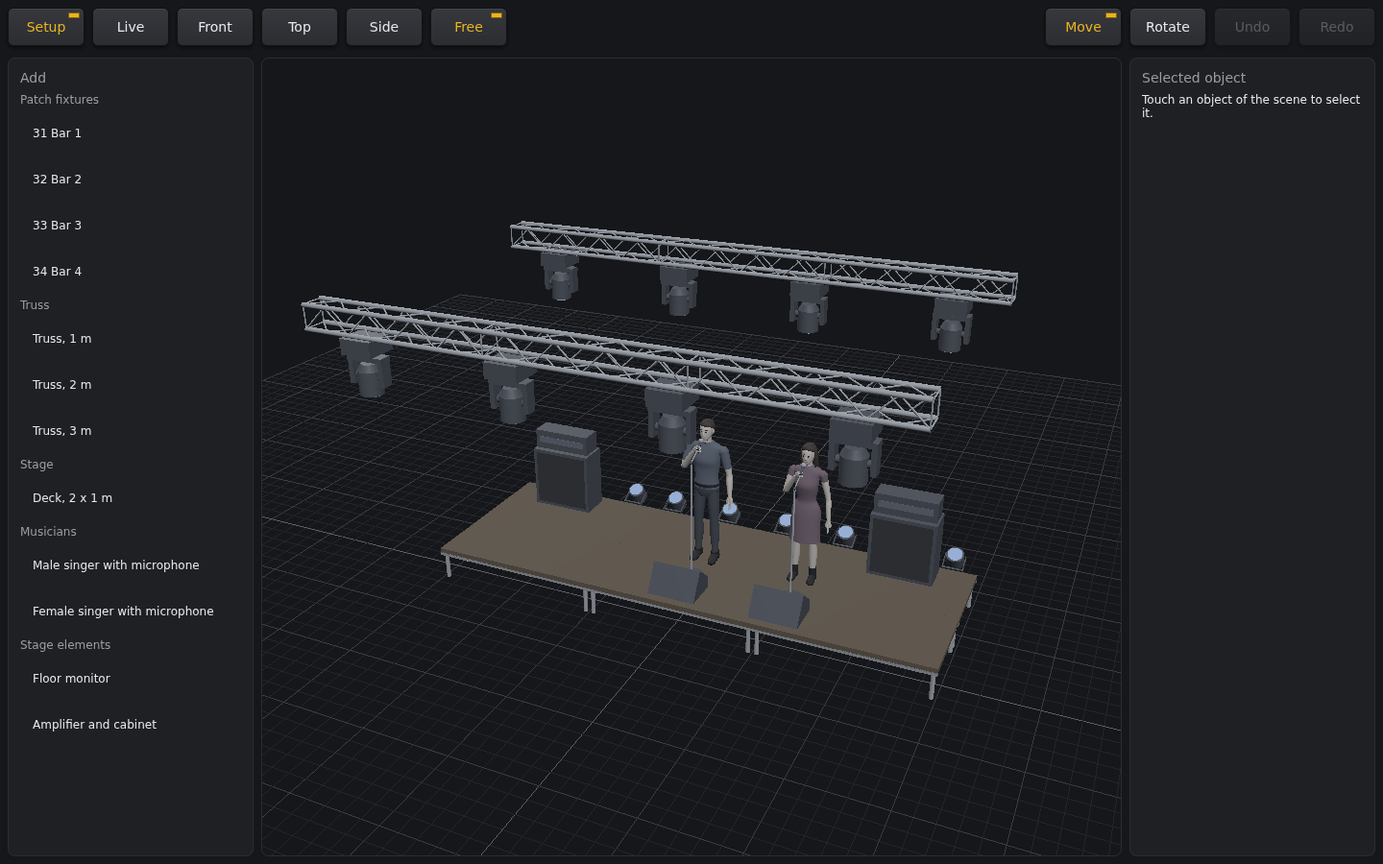
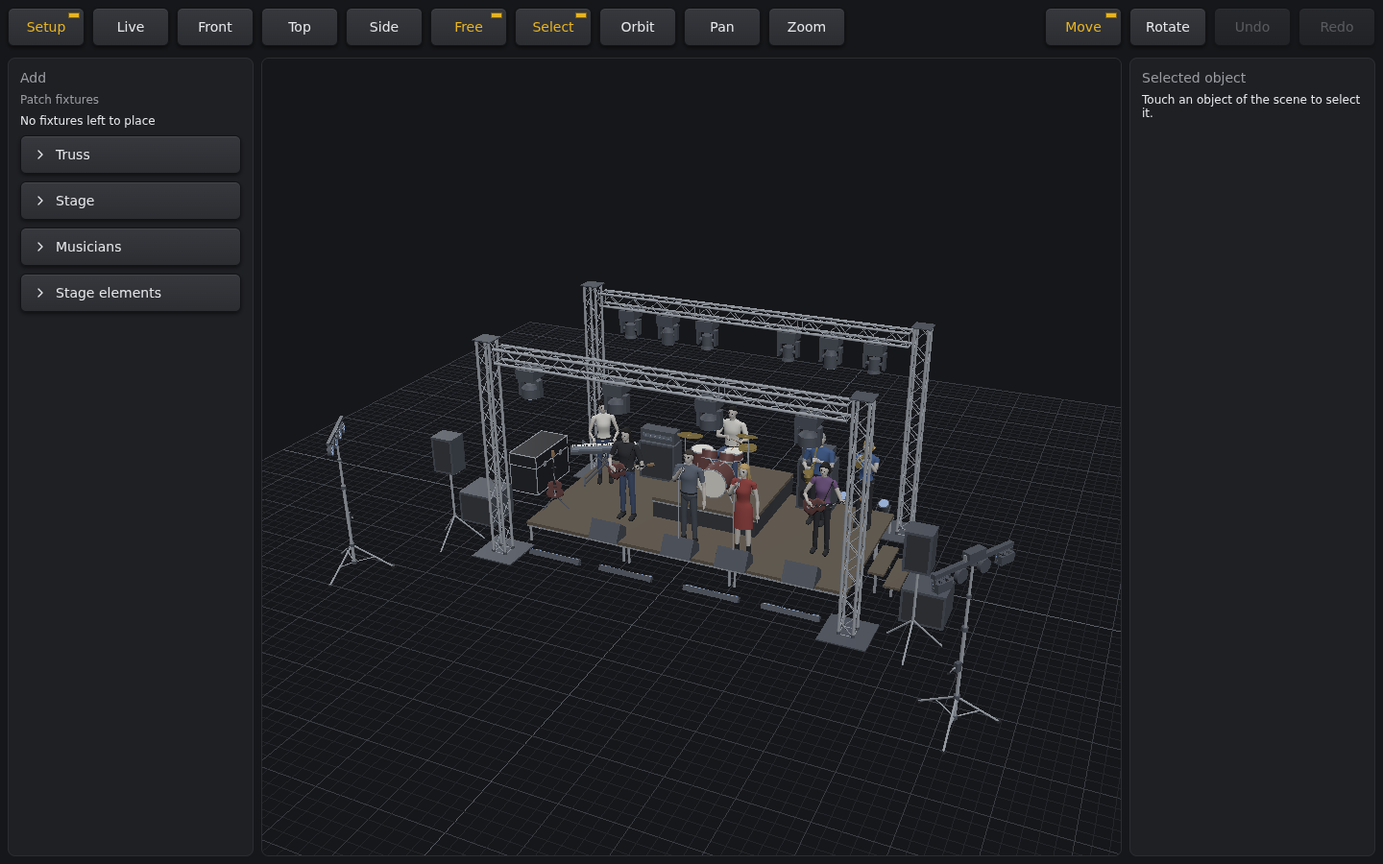
docs: record the stage library, effects and editor work

diff --git a/MEMORY.md b/MEMORY.md
@@ -780,21 +780,78 @@ Status: Confirmed (2026-11-22).
 - **Import:** the page of the stage declares an import map for `three` and `three/addons/`, the names the addons use; being inline, it is allowed by its SHA-256 hash in the Content Security Policy of that page only. Changing the import map means updating the hash. (Proposed)
 - **Types:** `@types/three` with the same version, development only. (Confirmed)
 - **Models:** made by us and generated by `npm run models` (`app/scripts/make-models.mts`) into `app/assets/models` (one `.obj` per model and the list `models.json`); the generated files are committed. Meters, Y up, front towards +Z; no `.mtl` files and no textures: the material names (`usemtl`) get their look in `renderer/stage/stage-materials.ts`. Moving parts are separate objects (base, yoke, head) with their pivots in the list. (Confirmed own models, Proposed format and a single folder with the category in the list)
-- **Detail level** (decided by the human on 2026-11-28): objects stay simple solids; musicians and singers are more detailed (rounded smooth surfaces, face, hair, clothes, hands, shoes). The singer exists as a man and as a woman. People are told apart in greys by lightness. `models/person.mts` is the figure reused by every musician, posed by elbow and wrist. (Confirmed detail and two singers, Proposed look)
+- **Detail level** (decided by the human on 2026-11-28): objects stay simple solids; musicians and singers are more detailed (rounded smooth surfaces, face, hair, clothes, hands, shoes). The singer exists as a man and as a woman. People are told apart by hair and clothes (see Model library). `models/person.mts` is the figure reused by every musician, posed by elbow and wrist. (Confirmed detail and two singers, Proposed look)
 - **Generator:** `make-models.mts` lists the models; the builders are in `scripts/models/` (writer, vectors, one file per family). The files carry their normals; normals are computed only for files without them.
 - **Window:** the stage has its own window, opened on request from the key of the top bar (Lucide `spotlight`), one at a time, closed with the main window; method `stage.open`, desktop only. The key is shown with a show open and an operator entered, never to remote clients. (Confirmed window and key, Proposed rest)
-- **View:** floor grid of 20 x 20 m, front, top, side and free views that frame the content, orbit, pan and zoom with mouse and touch; it draws only when something changes. (Proposed)
+- **View:** floor grid of 20 x 20 m, front, top, side and free views that frame the content; it draws only when something changes. (Proposed) Controls (decided by the human on 2026-11-28): the middle button orbits and with Shift pans, the wheel zooms towards the pointer, a double press of the middle button centres the view there, the left button selects (the right one does nothing); tools Select, Orbit, Pan and Zoom in the toolbar and on the keys Space, O, H and Z make the left button do it; Shift+Z frames everything, Escape goes back to Select. On touch screens of the computer one finger orbits and two pan and zoom. (Confirmed)
+- **No 3D on mobile** (decided by the human): the stage is only on the computer of the application; devices connected to it have no key for it and the stage page refuses them. (Confirmed)
+
+### Model library (13.2, 2026-11-28)
+
+- **Content:** 69 models. Truss: straight runs of 0.5, 1, 2, 3 and 4 m, corner, T and cross joints, base plate, towers of 3 and 4 m. Stage: decks of 1 x 1 and 2 x 1 m (also 1 m high), drum riser, stairs of 40 cm and 1 m. Fixtures: moving head spot, wash and beam, PAR, LED bar, blinder, strobe, follow spot. Elements: guitar and bass stacks, combo, floor monitor, PA speaker on its pole, subwoofer, microphone, keyboard and guitar stands, two flight cases, DJ booth. (Proposed sizes and shapes)
+- **Musicians** (decided by the human): singer, guitarist, singer with acoustic guitar, bassist, drummer, keyboard player and pianist at a grand piano, each as a man and as a woman; drummer and pianist are seated. Added by the human the same day: harp, violin, trumpet, trombone, saxophone, transverse flute and a string trio (violin, viola and cello on chairs with their music stands), also in both versions, the trio all men, all women or mixed (the human asked for the mixed one). (Confirmed instruments, Proposed rest)
+- **Telling them apart** (requested by the human): every role and version has its own hair cut (bald, buzz, short, quiff, curly, bob, long, ponytail, bun), hair color and clothes in muted colors (`scripts/models/looks.mts`); who sits or plays in a band wears trousers, some singers and players a dress. It replaces the first greys told apart by lightness. (Confirmed differences, Proposed looks)
+- **Fixtures of the patch:** the model chosen when placing follows the category (LED and pixel bar: LED bar; blinder; strobe; scanner: spot; the others: PAR); a moving head is a beam when its widest beam is 8 degrees or less, a spot when it has gobos, a wash otherwise (`renderer/stage/default-model.ts`). It replaces the first choice between moving head and PAR. The follow spot is chosen by hand. (Proposed)
+- **Hanging:** see Limits of the stage editor.
+- **Light files** (the human accepted a slight loss of quality): millimeter coordinates, two decimals for the normals and three quarters of the facets on smooth surfaces and balls; 7.5 MB instead of 13.
+- **Generator:** the files share vertices and normals; `models.json` also lists the width of every model, used to place a new object beside the others. A seated figure is posed by the drop of its body and by knees and ankles (`models/person.mts`).
+- **View rotation:** the camera orbits in every view by dragging an empty point (right button pans, wheel zooms; on touch one finger orbits, two pan and zoom).
+- **Demo show:** trumpet and saxophone beside the band on a deck with drum riser, two truss rows on four towers, LED bars on the floor, amplifiers, monitors, PA and subwoofers, stairs and a flight case.
+
+### Stairville bars and wind-up stand (13.11, 2026-11-28)
+
+- **Definitions** from the manufacturer manuals (Thomann): `stairville/stage-quad-led-bundle-rgb-ww` (manual 406030/404465 V3; modes 2, 4, 5, 8, 10, 18 channels; category LED bar; beam 40 degrees; 1200 x 330 x 70 mm, 12.5 kg) and `stairville/led-bossfx-1-pro-bundle` (manual 424577 V6; modes 3, 5, 10, 28 channels; category effect; 8.8 kg). The BossFx beam angle is not published: 30 degrees. (Confirmed fixtures, Proposed attributes)
+- **BossFx safety:** the laser, strobe LED, UV and automatic programme channels are marked for the blackout (see Blackout of channels without a dimmer).
+- **3D models** (decided by the human: the BossFx only as a bar, without its tripod): `stairville-quad` (four flat spots under the bar) and `stairville-bossfx` (derby, flood, flood, derby, laser on top), chosen automatically for these definitions (shapes Proposed).
+- **Several lights per fixture:** a model lists its lenses in `emitters` (materials `lens-1` to `lens-4`); each has its own color and beam, taken from the heads of the mode (neighbouring lights share a head when there are fewer). Modes of automatic programmes of color mixing fixtures show no light; a dimmer with strobe capabilities strobes. Derbies, laser and strobe LEDs: see Effects of the fixtures. (Proposed)
+- **Adjustable height** (decided by the human): a property of the 3D model (`lift` in `models.json`, parts `riser1` and `riser2`), set with a 3D arrow on top of the selected object in steps of 10 cm; the show saves `height` in the stage object. It is not an option of the fixture editor (models cannot be created there). (Confirmed arrow, Proposed step)
+- **Wind-up stand** (`windup-stand`, no brand in the name): 1.67 to 3.70 m, three sections, base of 128 cm.
+- **Mounting** (decided by the human): "Mount on the stand" puts the selected fixture on the top of the nearest stand, which then carries it when moved, turned, raised or lowered. Bars (`hang` in the model) hang under a truss without being turned over. (Confirmed mounting, Proposed hanging of bars)
+- **Demo show:** both bars patched on universe 2 (51 Quad at 101, 52 BossFx at 121), on two wind-up stands at the front, lit by the scene Front white.
+
+### Limits of the live emulation, first part (2026-11-28)
+
+The human chose the limits to solve with polls.
+
+- **Blackout of channels without a dimmer** (confirmed by the human): a channel of a definition can have `blackout: true`; a closed grand master or the blackout set it to 0, while lower grand master levels leave it as it is (its value is not a brightness). It is a column of the fixture editor ("Stops it" or "Keeps it"). Used by the BossFx for laser, strobe LEDs, UV and operating mode; motors are left. (Proposed form)
+- **Beams stopped by objects** (`stage-occlusion.ts`): one ray from each lens against the models, kept until the lens moves, at most 6 computed per frame; the cone ends there. (Proposed)
+- **Frames and automatic quality** (`stage-frame-meter.ts`): the toolbar shows the frames really drawn; the quality "automatic", now the default, goes down after 3 seconds under 80 % of the target and up after 15 seconds at the target (120 for a level that was too heavy), without judging the first 3 seconds. (Proposed values)
+- **Shadows** (the human asked to be able to turn them on or off): off by default; cast by the 4 brightest lights, which stay also at low quality. (Confirmed switch, Proposed rest)
+- **Strobe:** the existing key of the live view (shown by default, can be turned off) applies to every strobe.
+
+### Gobos and prisms (13.10.6, 2026-11-28)
+
+- **Masks** (decided by the human): in the fixture editor every range with the function "gobo" takes a black and white mask, white being the lit part, saved inside the definition (`image` of the capability: PNG data URL of 128 x 128 in greys), so it travels with the fixture. (Confirmed)
+- **Choosing:** an image picked with the internal file manager (`fixtures.readImage`, png, jpg, webp, gif or bmp up to 10 MB, with the permission of the patch), or a default mask (`gobo-presets.ts`): full circle, ring of 8 dots, swirl of 6 arms, wave, flower of 8 petals, leaning cross. They are the default gobos chosen by the human with a photo (the cyan one is the full circle; the magenta ring is the same shape as the amber one). (Confirmed gobos, Proposed drawings)
+- **Prism:** ranges with the function "prism" take their facets (2 to 32, 3 without). The human asked that gobos be seen repeated by the prism as a pattern: up to 11 facets on one ring, from 12 on two rings (18: 12 outside, 6 inside, empty middle) (`shared/stage/prism-layout.ts`). (Confirmed pattern of 18, Proposed rest)
+- **Rendering:** gobo and prism pattern are one texture projected by one spot light; in the haze every copy of the prism is a beam, with streaks from the mask. Gobo and prism turn with their rotation ranges, stay at their angle in indexing ranges (kind `index`, or "index" in the name) and shake in shaking ranges: the human asked for the prism shake with its frequency from slow to fast; a range shakes when its `shake` is set (key "Shake" of the fixture editor) or its name says so, as in many bundled definitions, from 1.5 to 9 shakes per second (reversed for "fast to slow"). The zoom is reversed when its range says it goes from wide to narrow. The human asked for no limit on the gobos projected, accepting less quality: gobos and prisms are not spot lights but one more pass over the surfaces adding up to 64 projectors, their pictures in one texture (`stage-projection.ts`), at every quality and with no lights of their own; objects do not stop this light. At low quality the pictures are smaller and a prism shows one beam in three in the haze. A gobo without mask leaves the light open. (Proposed)
+- **Generic gobo moving head** (`generic/gobo-moving-head`): bundled with the default masks, prisms of 5 and 18 facets, shaking ranges and a zoom of 6 to 24 degrees (12 channels); two of them in the demo show, on the scene Chorus red. Real fixtures of the library have no masks: their images are not available. (Proposed)
+
+### Effects of the fixtures (13.10, second part, 2026-11-28)
+
+- **Dimmer curve** (decided by the human: ready curves and drawn): `dimmerCurve` of a definition (`shared/fixtures/dimmer-curve.ts`): linear (not saved), square, inverse square, S, or drawn through 2 to 32 points. Set in the physical data of the fixture editor with the framework `CurveEditor`. It changes only the 3D stage, not the DMX output. (Proposed shapes)
+- **Channel types added:** `laserRed`, `laserGreen`, `laserRotation`, `strobeWhite`, `strobeUv`; capability kind `program` for automatic and sound programmes. (Proposed)
+- **Model parts:** an emitter of a model can be a `derby` (12 beams, one from each lens of its curved front, in a fan that the motor turns; the derby of the 3D model is the boxed one of the photo given by the human: curved front with six slots of two lenses and a U bracket), `laser` (18 thin red and green rays) or `led` (strobe LED, white or ultraviolet). (`shared/stage/effect-light.ts`, Proposed look)
+- **Automatic programmes** show colors that change by themselves: the real patterns of the fixtures are not known. (Proposed)
+- **Optics:** focus (sharp at the middle of its travel) and frost soften the edge of the beam, frost also widens it; the iris narrows it; a color macro with a color in its capabilities gives that color. (Proposed)
+
+### Limits of the stage editor (13.12, 2026-11-28)
+
+Chosen by the human with polls.
+
+- **Categories** of the "Add" column closed at first; the opened ones stay open on this computer (`backshade.stageCategories`). (Confirmed)
+- **Import from another show:** the 3D stage is a category with two items, the scenery and the placed fixtures (which need their fixtures and the scenery they hang on); a stage already there can be added to, replaced or skipped. (Confirmed import, Proposed parts)
+- **Follow spot** also in the stage elements, as scenery without DMX. (Confirmed)
+- **Hanging** also under the arms of truss joints and on towers: on a side, upright and facing out, or on top with "Mount on top" (which works for wind-up stands and towers). Models list `rails` and `tower`. (Confirmed places, Proposed positions)
 
 ### Stage editor (13.4 and 13.5, 2026-11-28)
 
 - **Permission** (decided by the human): the operator profiles have their own "stage" section (hidden, read only, editable); profiles of older shows have it hidden until an administrator changes it. `stage.open` and `stage.get` need it shown, `stage.set` editable. (Confirmed)
-- **Fixtures** (decided by the human): only the fixtures of the patch can be placed, each once; the model follows the category (moving head and scanner: moving head; the others: PAR) and can be changed. A fixture removed from the patch leaves the stage. (Confirmed from patch, Proposed models)
+- **Fixtures** (decided by the human): only the fixtures of the patch can be placed, each once; the model follows the fixture (see Model library) and can be changed. A fixture removed from the patch leaves the stage. (Confirmed from patch, Proposed models)
 - **Handles and grid** (decided by the human): objects move only with the 3D handles, on a grid of 20 cm in real scale (the floor shows 20 cm squares with stronger lines every meter). Rotations in steps of 15 degrees. No numeric fields: the position is only shown. (Confirmed handles and 20 cm, Proposed 15 degrees)
 - **Saving:** `show.json` section `stage` (`shared/stage/stage.ts`): objects with model, position in meters (origin at the bottom centre), rotation in degrees, patched fixture and truss they hang from. The editor sends the whole stage (`stage.set`), saved as an unsaved change; undo and redo (100 steps) live in the window; Ctrl+S saves the show. (Proposed)
 - **Hanging:** the "Hang on the truss" key puts the fixture upside down under the nearest truss, on the grid along it; moving or turning the truss carries it along (so its position can leave the grid when the truss is turned); it can still be moved by itself, until taken off. Removing a truss leaves its fixtures where they are. (Proposed)
 - **Selection:** press on an object, also inside the outline of open shapes such as trusses. Duplicate for scenery, remove (also with Delete). New objects go on the floor at the point the camera looks at, beside what is already there. (Proposed)
-- **Not included:** the stage is not offered by the import from another show. (Proposed)
-- **Demo show:** two truss rows with the washes and beams hung, PARs on the floor, deck, two singers, amplifiers and monitors; the LED bars are left to be placed.
 
 ### Live emulation (13.3, 13.6 and 13.7, 2026-11-28)
 

diff --git a/ROADMAP.md b/ROADMAP.md
@@ -223,13 +223,13 @@ Static website presenting Backshade, in English and Italian. It lives in `/landi
 3D modeling of the stage with three.js, and a live visualizer that emulates the fixtures from the DMX output. It depends on the fixture model and the output engine (Phase 3) and on the simple console (Phase 4). It is numbered after the existing phases to avoid renumbering them; its position in the development order can be decided later.
 
 - [x] 13.1 three.js vendored locally and imported as native ES modules (see `MEMORY.md`, Dependencies and Code style)
-- [ ] 13.2 Bundled `.obj` model library, ready to use:
-  - [ ] 13.2.1 Truss: straight sections of common lengths, corners, T and cross joints, base plates, towers
-  - [ ] 13.2.2 Stage: modular decks, risers, stairs
-  - [ ] 13.2.3 Most used fixtures: moving head spot, moving head wash, moving head beam, PAR, LED bar, blinder, strobe, follow spot
-  - [ ] 13.2.4 Moving fixtures split into separate parts (base, yoke, head) with defined pivot points, so pan and tilt can be animated
-  - [ ] 13.2.5 Musicians with their instrument: drummer (with drum kit), guitarist, bassist, pianist (with piano or keyboard), singer (with microphone and stand); neutral figures, to visualize the band on stage and aim the lights
-  - [ ] 13.2.6 Stage elements: guitar and bass amplifiers and cabinets, drum riser, risers and platforms, floor wedge monitors, PA speakers and subwoofers, microphone stands, keyboard stands, instrument stands, cases and flight cases, DJ booth
+- [x] 13.2 Bundled `.obj` model library, ready to use:
+  - [x] 13.2.1 Truss: straight sections of common lengths, corners, T and cross joints, base plates, towers
+  - [x] 13.2.2 Stage: modular decks, risers, stairs
+  - [x] 13.2.3 Most used fixtures: moving head spot, moving head wash, moving head beam, PAR, LED bar, blinder, strobe, follow spot
+  - [x] 13.2.4 Moving fixtures split into separate parts (base, yoke, head) with defined pivot points, so pan and tilt can be animated
+  - [x] 13.2.5 Musicians with their instrument: drummer (with drum kit), guitarist, bassist, pianist (with piano or keyboard), singer (with microphone and stand); neutral figures, to visualize the band on stage and aim the lights
+  - [x] 13.2.6 Stage elements: guitar and bass amplifiers and cabinets, drum riser, risers and platforms, floor wedge monitors, PA speakers and subwoofers, microphone stands, keyboard stands, instrument stands, cases and flight cases, DJ booth
 - [x] 13.3 Link between fixture definitions and 3D models: model, beam angle and zoom range, pan and tilt range, light output
 - [x] 13.4 Stage editor: place, move, rotate and snap truss, decks and fixtures; hang fixtures on truss; camera views (front, top, side, free)
 - [x] 13.5 Placed fixtures linked to the patch; stage layout saved in `show.json`
@@ -246,14 +246,29 @@ Static website presenting Backshade, in English and Italian. It lives in `/landi
   - [ ] 13.9.3 Preview of the videomapping (Phase 14): warp, masks and edge blending shown on the 3D surfaces as they would appear in the venue
   - [ ] 13.9.4 Screens, LED walls and projectors placed in the stage editor and linked to the video outputs of Phase 7; layout saved in `show.json`
 - [ ] 13.10 Overcome the limits of the live emulation (requested by the human on 2026-11-28):
-  - [ ] 13.10.1 Beams stopped by the objects they meet
-  - [ ] 13.10.2 Focus, frost and iris
-  - [ ] 13.10.3 Dimmer curve in the fixture definitions
-  - [ ] 13.10.4 Counter of the frames really drawn and quality lowered automatically
-  - [ ] 13.10.5 Shadows of the brightest fixtures
-  - [ ] 13.10.6 Prisms and rotating gobos (generic patterns or images given by the user)
-  - [ ] 13.10.7 Color macros, where the definition gives their colors
+  - [x] 13.10.1 Beams stopped by the objects they meet
+  - [x] 13.10.2 Focus, frost and iris
+  - [x] 13.10.3 Dimmer curve in the fixture definitions: ready curves or drawn in the fixture editor
+  - [x] 13.10.4 Counter of the frames really drawn and quality lowered automatically
+  - [x] 13.10.5 Shadows of the brightest fixtures, that can be turned on or off
+  - [x] 13.10.6 Prisms and rotating gobos; the fixture editor takes black and white masks for the gobos (white is the lit part)
+  - [x] 13.10.7 Color macros, where the definition gives their colors
   - [ ] 13.10.8 Precise beam occlusion and gobos visible in the haze, only if still needed after the rest
+  - [x] 13.10.9 Blackout and grand master stop lasers and strobe LEDs without a dimmer (safety)
+  - [x] 13.10.10 Derby effects: several beams and their rotation
+  - [x] 13.10.11 Laser in the live view
+  - [x] 13.10.12 Strobe and UV LEDs of multi effect fixtures in the live view
+  - [x] 13.10.13 Automatic programmes of the fixtures shown in some way instead of off
+- [x] 13.11 Requested by the human on 2026-11-28: Stairville Stage Quad LED Bundle RGB WW and LED BossFx-1 Pro Bundle as fixtures with their own 3D models, and a wind-up stand of adjustable height (inspired by the Manfrotto 087NW) to mount fixtures on
+- [x] 13.12 Limits of the stage editor and of the model library:
+  - [x] 13.12.1 Categories of the "Add" column that open and close
+  - [x] 13.12.2 Mouse controls of the view with tools for orbit, pan and zoom; no 3D stage on mobile or other connected devices
+  - [x] 13.12.3 The follow spot also as scenery without DMX
+  - [x] 13.12.4 Hanging also on truss joints and towers
+  - [x] 13.12.5 Lighter model files (from 13 to 7.5 MB)
+  - [x] 13.12.6 String trio of men and women together
+  - [x] 13.12.7 Stage included in the import from another show
+  - [x] 13.12.8 README features list updated with the 3D stage
 
 ## Phase 14 - Videomapping
 

diff --git a/TESTING.md b/TESTING.md
@@ -224,7 +224,9 @@ How to use it:
 ## 19. 3D stage
 
 - [ ] On Windows, macOS and Linux the key of the top bar opens the stage window; the models are drawn (WebGL available), also on computers with older or integrated graphics.
-- [ ] Mouse: orbit, pan and zoom; touch screen: one finger orbits, two fingers pinch and pan.
+- [ ] Mouse: middle button orbits, with Shift pans, wheel zooms towards the pointer, double press centres; tools and keys O, H, Z, Space, Shift+Z; also with a trackpad. Touch screen of the computer: one finger orbits, two fingers pinch and pan.
+- [ ] A phone or another computer connected to the show has no 3D stage, also when the address of its page is typed.
+- [ ] Hanging on joints and tower sides matches how the fixtures are really clamped.
 - [ ] Editor on a touch screen: a tap selects, the arrows and rings can be dragged with a finger without moving the camera.
 - [ ] A stage built like a real one (truss, decks, hung fixtures) in a venue: the 20 cm grid is fine enough; heights and distances match the measures.
 - [ ] Live view next to the real rig: colors, intensity, pan and tilt directions, travel and speed, zoom and strobe rate match the fixtures (moving heads hung and standing).
@@ -232,4 +234,18 @@ How to use it:
 - [ ] Operators: stage hidden (no key in the top bar), read only (no handles) and editable; changing operator updates the open stage window.
 - [ ] Save, close and reopen the show, also on another computer: the stage is the same.
 - [ ] Moving the window to a second screen and resizing it keeps the view sharp and proportioned; closing the main window closes it.
-
+- [ ] Model library: sizes of truss, towers, decks, stairs, risers and PA match the real ones used; a rig of a real show can be built with the available pieces.
+- [ ] Placing the fixtures of a real patch gives the right model (spot, wash, beam, PAR, LED bar, blinder, strobe); LED bars, blinders and strobes light in the right direction in the live view.
+- [ ] A large stage (full truss, many musicians) opens in a reasonable time and stays fluid on the show computer.
+- [ ] Stairville Stage Quad LED RGB WW on the real unit, every mode (2, 4, 5, 8, 10, 18 channels): channels, spot order from left to right, strobe; the 3D stage shows the same colors on the same spots.
+- [ ] Stairville LED BossFx-1 Pro on the real unit, every mode (3, 5, 10, 28 channels): derby and spot order, rotation, laser, strobe LEDs and UV. Check with care what stays on in blackout (laser and strobe LEDs are not stopped by it) and use the safety switch.
+- [ ] Wind-up stand: the arrow on its top can be dragged with mouse and finger; mounted bars sit as on the real stand at the same height.
+- [ ] Blackout and grand master at zero stop the laser and the strobe LEDs of the real BossFx in 3, 10 and 28 channel mode; raising them brings back what the desk sends.
+- [ ] Automatic quality on the show computer settles on a level that keeps the frame rate; shadows stay usable.
+- [ ] Effects against the real units: derby rotation way and speed, laser colors, strobe and UV LEDs, focus, frost, iris and color macros of the moving heads; a dimmer curve drawn from the real fixture matches what is seen.
+- [ ] Curve editor of the fixture editor with a finger: add, drag and remove points.
+- [ ] Gobo masks made from the real gobos of a fixture: choose them in the fixture editor, compare projection, rotation way and speed, and the prism pattern with the real fixture.
+- [ ] Choosing a mask image from a remote client (sent with "Send from this device").
+- [ ] Prism and gobo shake, rotation, indexing and zoom against the real fixtures: speeds, ways and the width of the movement.
+- [ ] Many gobo fixtures projecting at once on the show computer: the frame rate holds with automatic quality.
+- [ ] Import the 3D stage from a real previous show, adding to and replacing the one there.

diff --git a/README.md b/README.md
@@ -49,22 +49,24 @@ Available now:
 - Start page with recent shows; shows saved as portable folders, with autosave, recovery and history of the saved versions
 - Show templates, with a complete "Demo show" to try every feature; export and import of shows and templates as single archives, show media in the show folder
 - Show operators with a 4 digit PIN, mandatory in every show: each operator sees the sections of the profile, hidden, read only or editable
-- Import from another show: scenes, chasers, fixtures, audio, video, images and operators, with their dependencies and the choice of how to solve conflicts
-- Fixture library with a custom fixture editor; multi-universe patch with groups and LED matrices
+- Import from another show: scenes, chasers, fixtures, audio, video, images, operators and the 3D stage, with their dependencies and the choice of how to solve conflicts
+- Fixture library with a custom fixture editor (gobo masks, prisms, dimmer curves); multi-universe patch with groups and LED matrices
 - DMX output over Art-Net and USB DMX interfaces, with grand master, blackout and a DMX monitor
 - Simple console: two-preset desk, attributes panel with jog wheels and color wheel, scenes, chasers with tap tempo, live cues
 - LED matrices with effects, animations and image mapping, recorded in scenes
 - Virtual console on a customizable grid for each show, with multi-touch
 - Audio player with playlist, fades and output device; video outputs on external displays with layers, inputs from cameras, preview and program, text gobos and timer screens
-- Timelines of tracks with lights, audio, video and automation clips, edited as in a DAW, with drag and drop everywhere
+- Timelines of tracks with lights, audio, video and automation clips, edited as in a DAW, with waveforms, markers, go mode, recording of live actions and MIDI timecode
+- External audio mixers over OSC and MIDI; MIDI controllers with learn and feedback
+- Remote control from other devices through the built-in web server, with the address as a QR code
+- 3D stage in real scale: library of trusses, stage elements, fixtures and musicians, hanging and mounting, and a live view of the fixtures from the DMX output with beams, gobos, prisms, effects and shadows
 - Multilingual interface (English and Italian), extensible with language packs
 
 Planned (see [ROADMAP.md](ROADMAP.md)):
 
-- Waveforms, markers and go mode in the timeline
-- Integration with external audio mixers and MIDI controllers
-- Remote control from desktop or mobile through the built-in web server
-- 3D stage, videomapping, several synchronized machines
+- Video outputs and custom models in the 3D stage
+- Videomapping and several synchronized machines
+- Layout for phones, OSC control surfaces and installers
 
 ## Requirements
 
